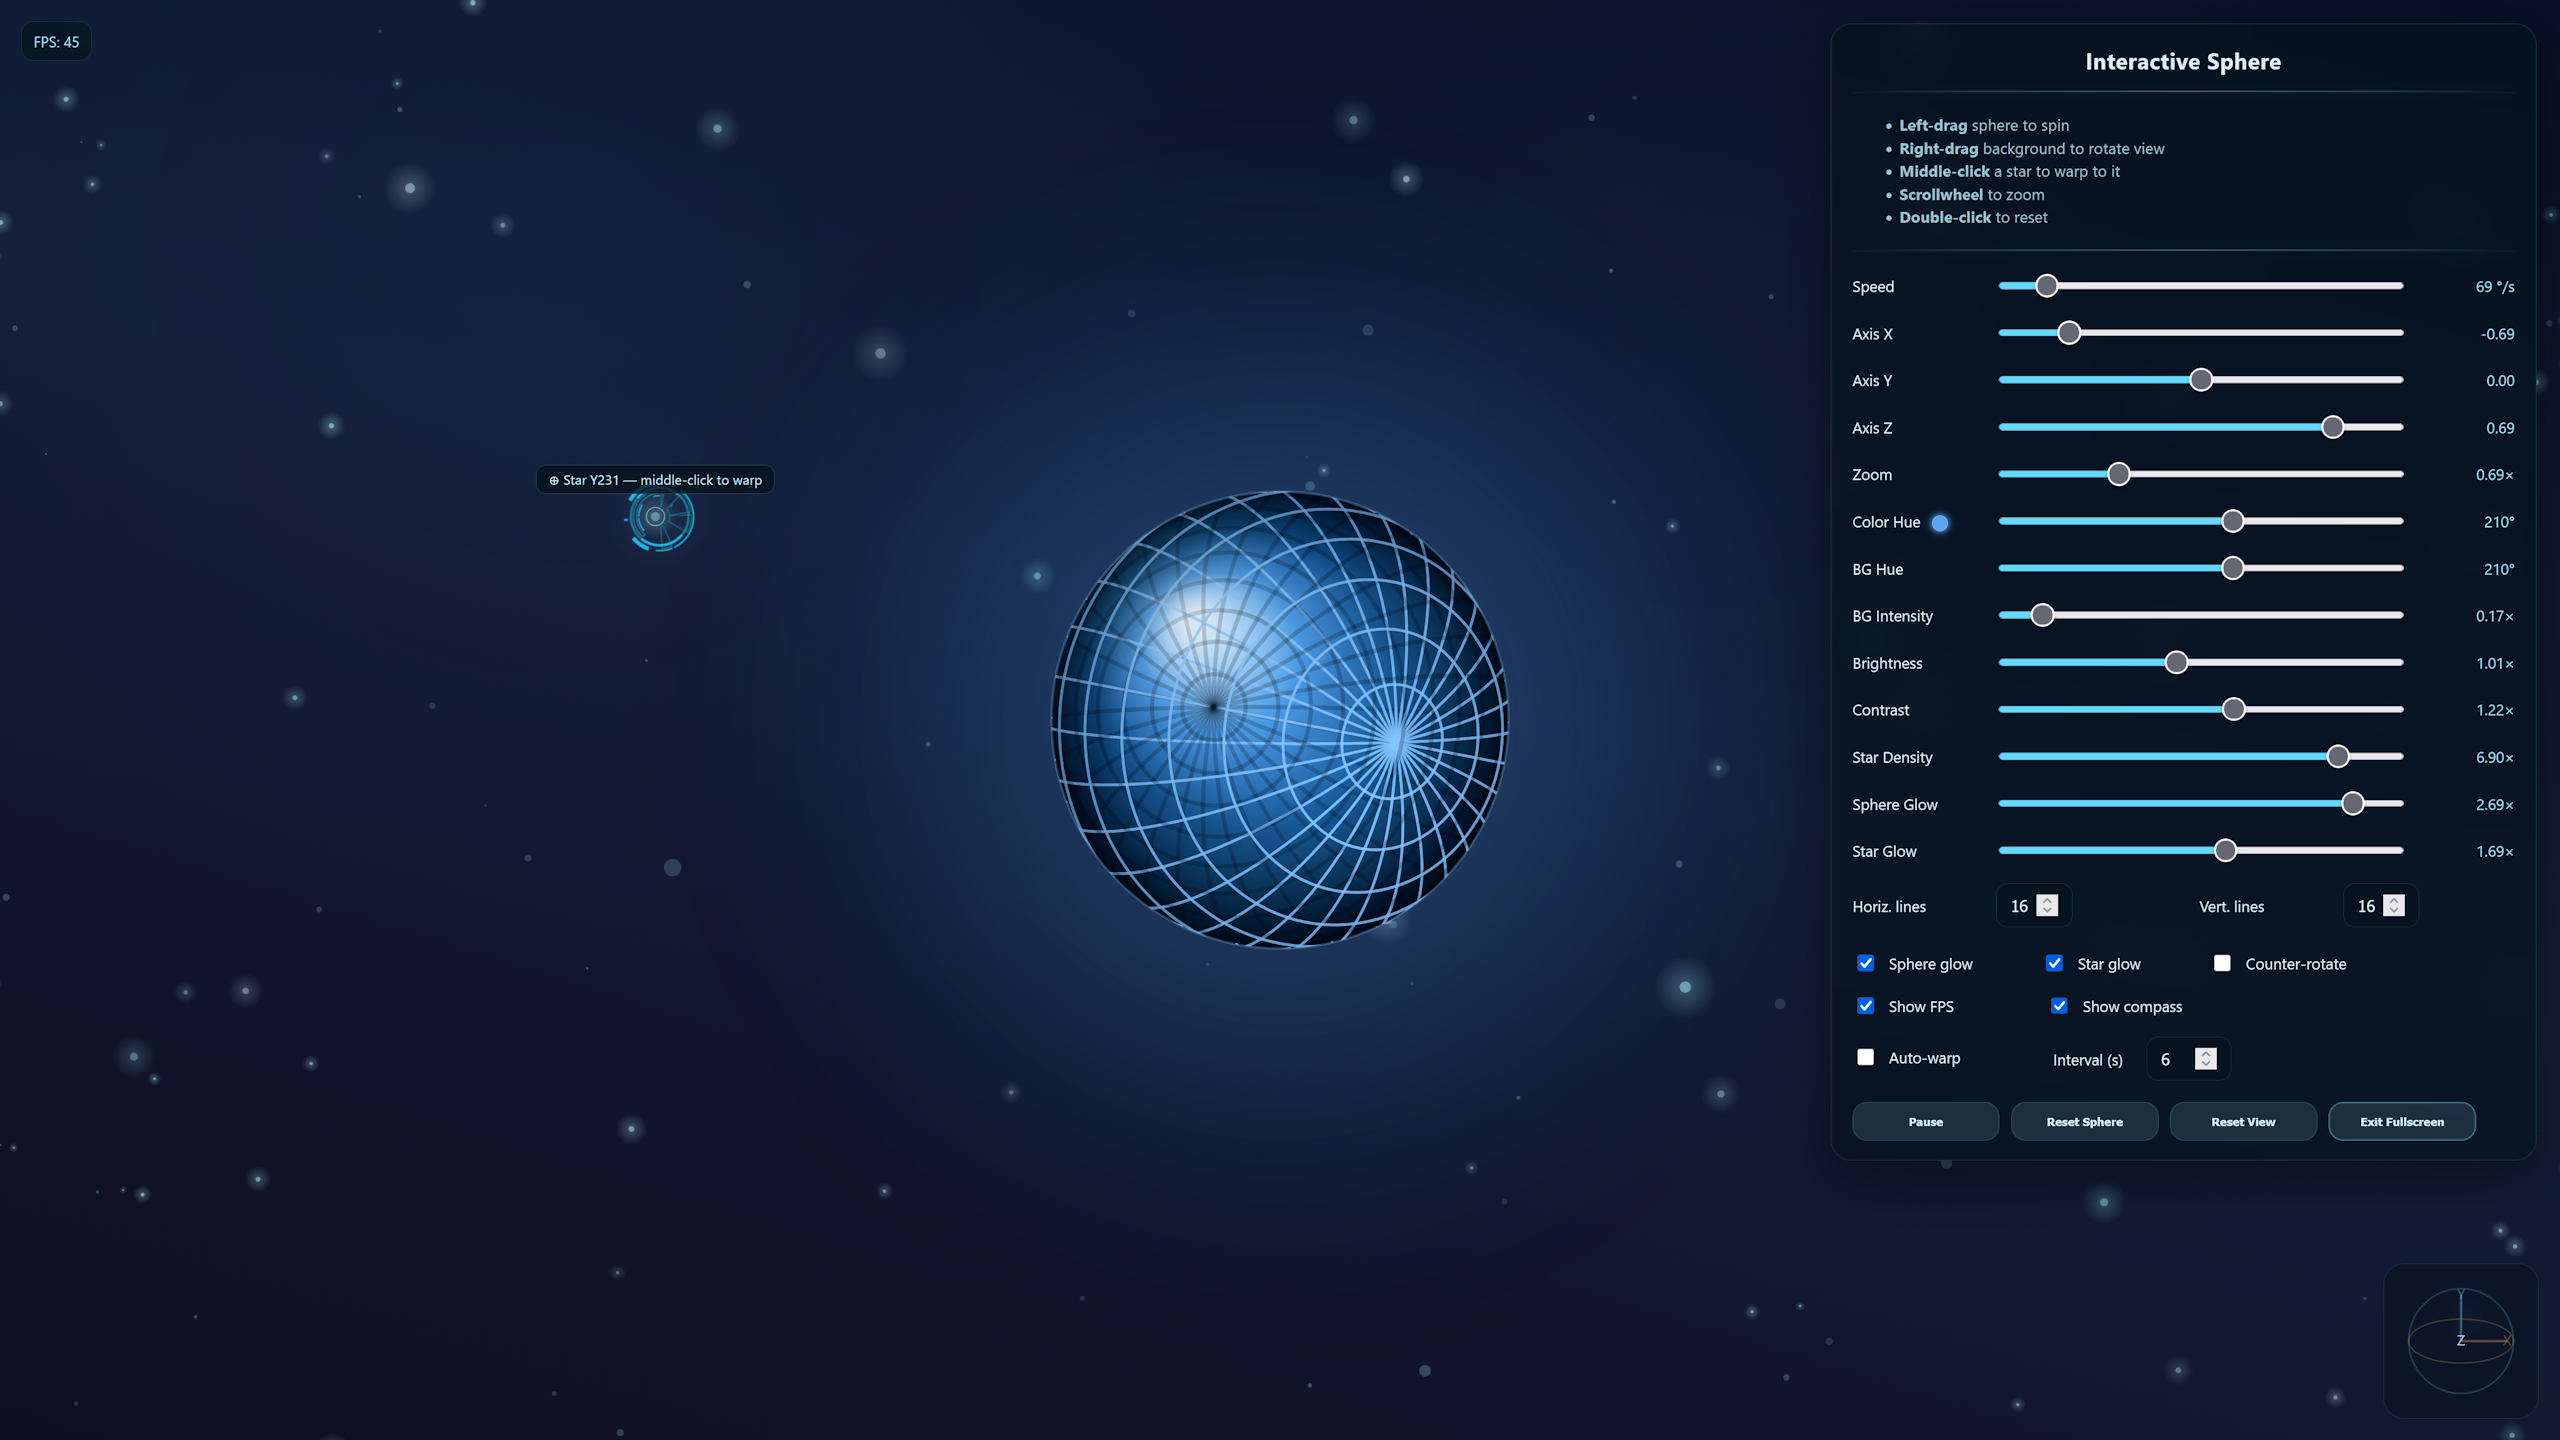
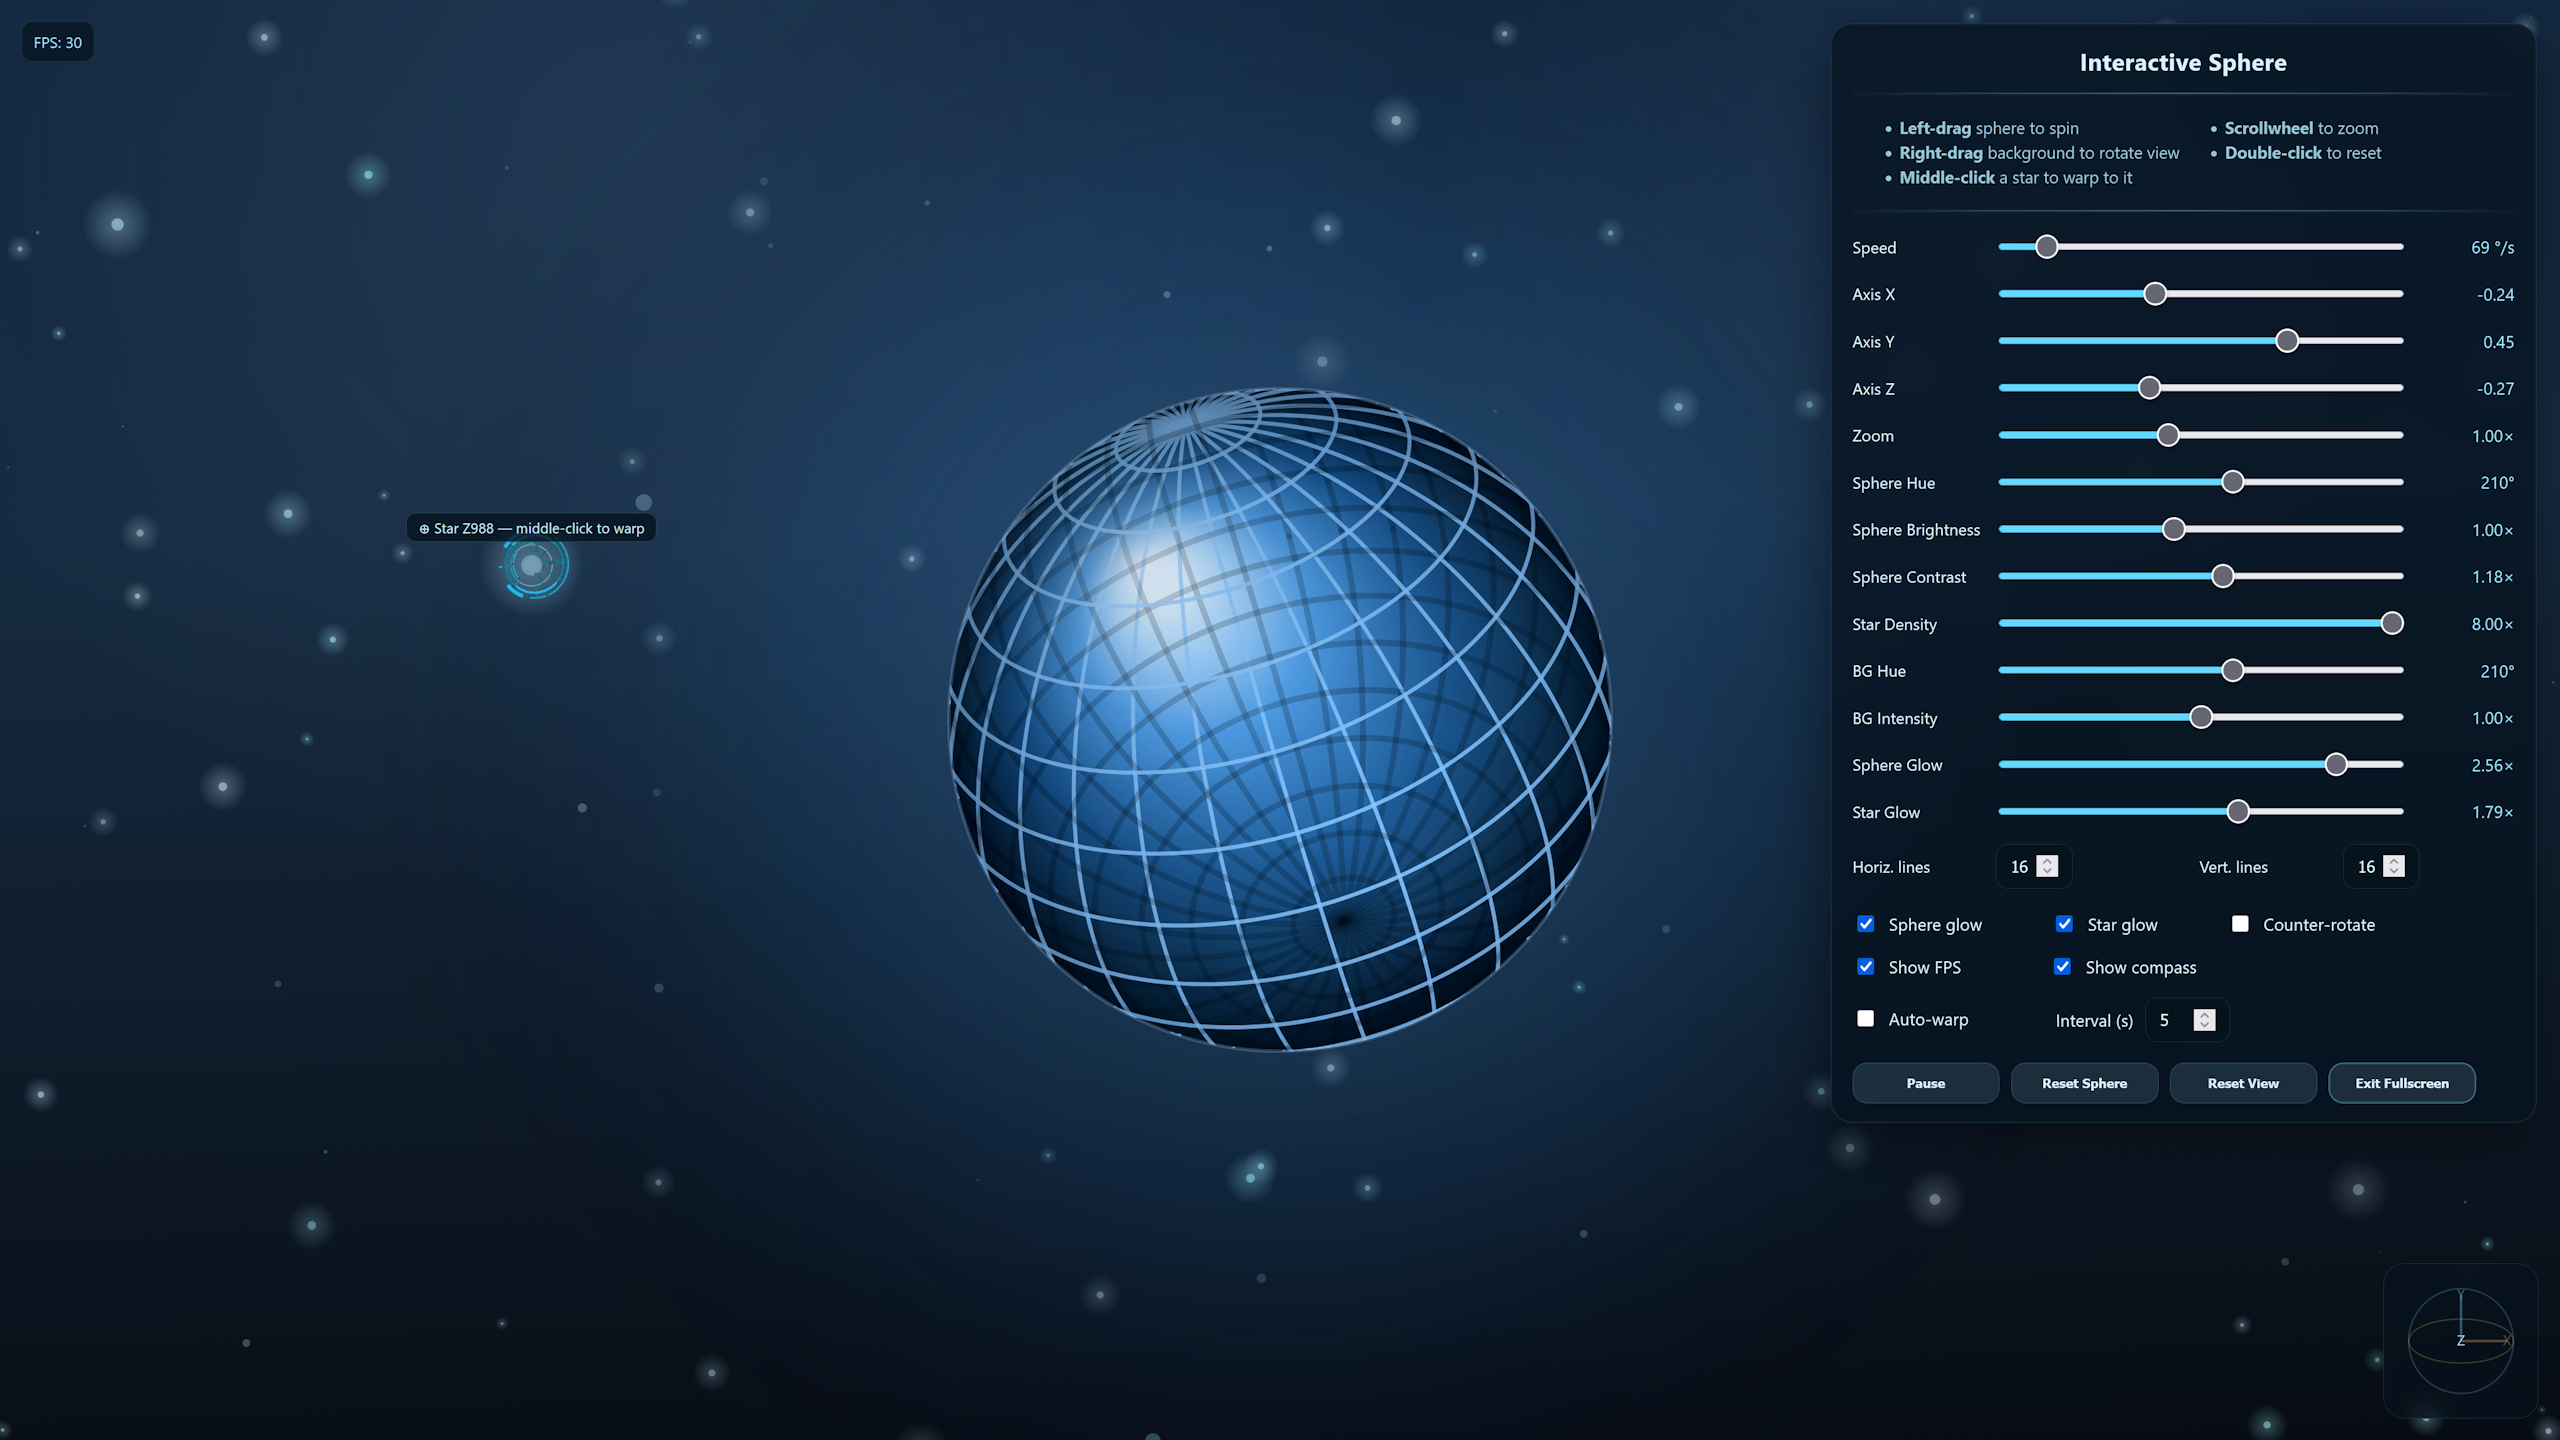
adjust HUD

diff --git a/index.html b/index.html
@@ -23,7 +23,7 @@
 
           <hr>
 
-          <ul class="desc">
+          <ul class="desc two-cols">
             <li><strong>Left-drag</strong> sphere to spin</li>
             <li><strong>Right-drag</strong> background to rotate view</li>
             <li><strong>Middle-click</strong> a star to warp to it</li>
@@ -64,9 +64,27 @@
           </div>
 
           <div class="control control-inline">
-            <label for="hue">Color Hue <span class="hue-preview" id="huePreview"></span></label>
+            <label for="hue">Sphere Hue <span class="hue-preview" id="huePreview" style="display: none"></span></label>
             <input id="hue" type="range" min="0" max="360" value="210" step="1" />
             <div class="value" id="hueVal">210°</div>
+          </div>
+
+          <div class="control control-inline">
+            <label for="sceneBrightness">Sphere Brightness</label>
+            <input id="sceneBrightness" type="range" min="40" max="180" value="100" step="1" />
+            <div class="value" id="sceneBrightnessVal">1.00×</div>
+          </div>
+
+          <div class="control control-inline">
+            <label for="sceneContrast">Sphere Contrast</label>
+            <input id="sceneContrast" type="range" min="40" max="180" value="100" step="1" />
+            <div class="value" id="sceneContrastVal">1.00×</div>
+          </div>
+
+          <div class="control control-inline">
+            <label for="starDensity">Star Density</label>
+            <input id="starDensity" type="range" min="25" max="800" value="100" step="1" />
+            <div class="value" id="starDensityVal">1.00×</div>
           </div>
 
           <div class="control control-inline">
@@ -79,24 +97,6 @@
             <label for="stageIntensity">BG Intensity</label>
             <input id="stageIntensity" type="range" min="0" max="200" value="100" step="1" />
             <div class="value" id="stageIntensityVal">1.00×</div>
-          </div>
-
-          <div class="control control-inline">
-            <label for="sceneBrightness">Brightness</label>
-            <input id="sceneBrightness" type="range" min="40" max="180" value="100" step="1" />
-            <div class="value" id="sceneBrightnessVal">1.00×</div>
-          </div>
-
-          <div class="control control-inline">
-            <label for="sceneContrast">Contrast</label>
-            <input id="sceneContrast" type="range" min="40" max="180" value="100" step="1" />
-            <div class="value" id="sceneContrastVal">1.00×</div>
-          </div>
-
-          <div class="control control-inline">
-            <label for="starDensity">Star Density</label>
-            <input id="starDensity" type="range" min="25" max="800" value="100" step="1" />
-            <div class="value" id="starDensityVal">1.00×</div>
           </div>
 
           <div class="control control-inline">
@@ -144,7 +144,7 @@
               <input type="checkbox" id="showFps" />
               <span>Show FPS</span>
             </label>
-            <label class="checkbox" style="margin-left: 75px !important;">
+            <label class="checkbox" style="margin-left: 71px !important;">
               <input type="checkbox" id="showCompass" checked />
               <span>Show compass</span>
             </label>
@@ -156,7 +156,7 @@
               <span>Auto-warp</span>
             </label>
 
-            <label class="checkbox" style="margin-left: 75px !important;">
+            <label class="checkbox" style="margin-left: 70px !important;">
               <span>Interval (s)</span>
               <input
                 id="autoWarpInterval"
@@ -165,7 +165,7 @@
                 max="120"
                 value="12"
                 step="1"
-                style="width: 72px; margin-left: 10px;"
+                style="width: 72px; margin-left: 0px;"
               />
             </label>
           </div>

diff --git a/css/style.css b/css/style.css
@@ -27,7 +27,7 @@ body {
   overflow: hidden;
   background: linear-gradient(180deg, var(--bg-3), var(--bg-2) 45%, var(--bg-1));
   font-family: Inter, system-ui, sans-serif;
-  font-size: 0.9em;
+  font-size: 0.95em;
   color: var(--text);
 }
 
@@ -204,6 +204,11 @@ body {
   font-size: 0.92rem;
   line-height: 1.45;
   color: var(--muted);
+}
+
+.desc.two-cols {
+  columns: 2;
+  column-gap: 2rem;
 }
 
 .control {
